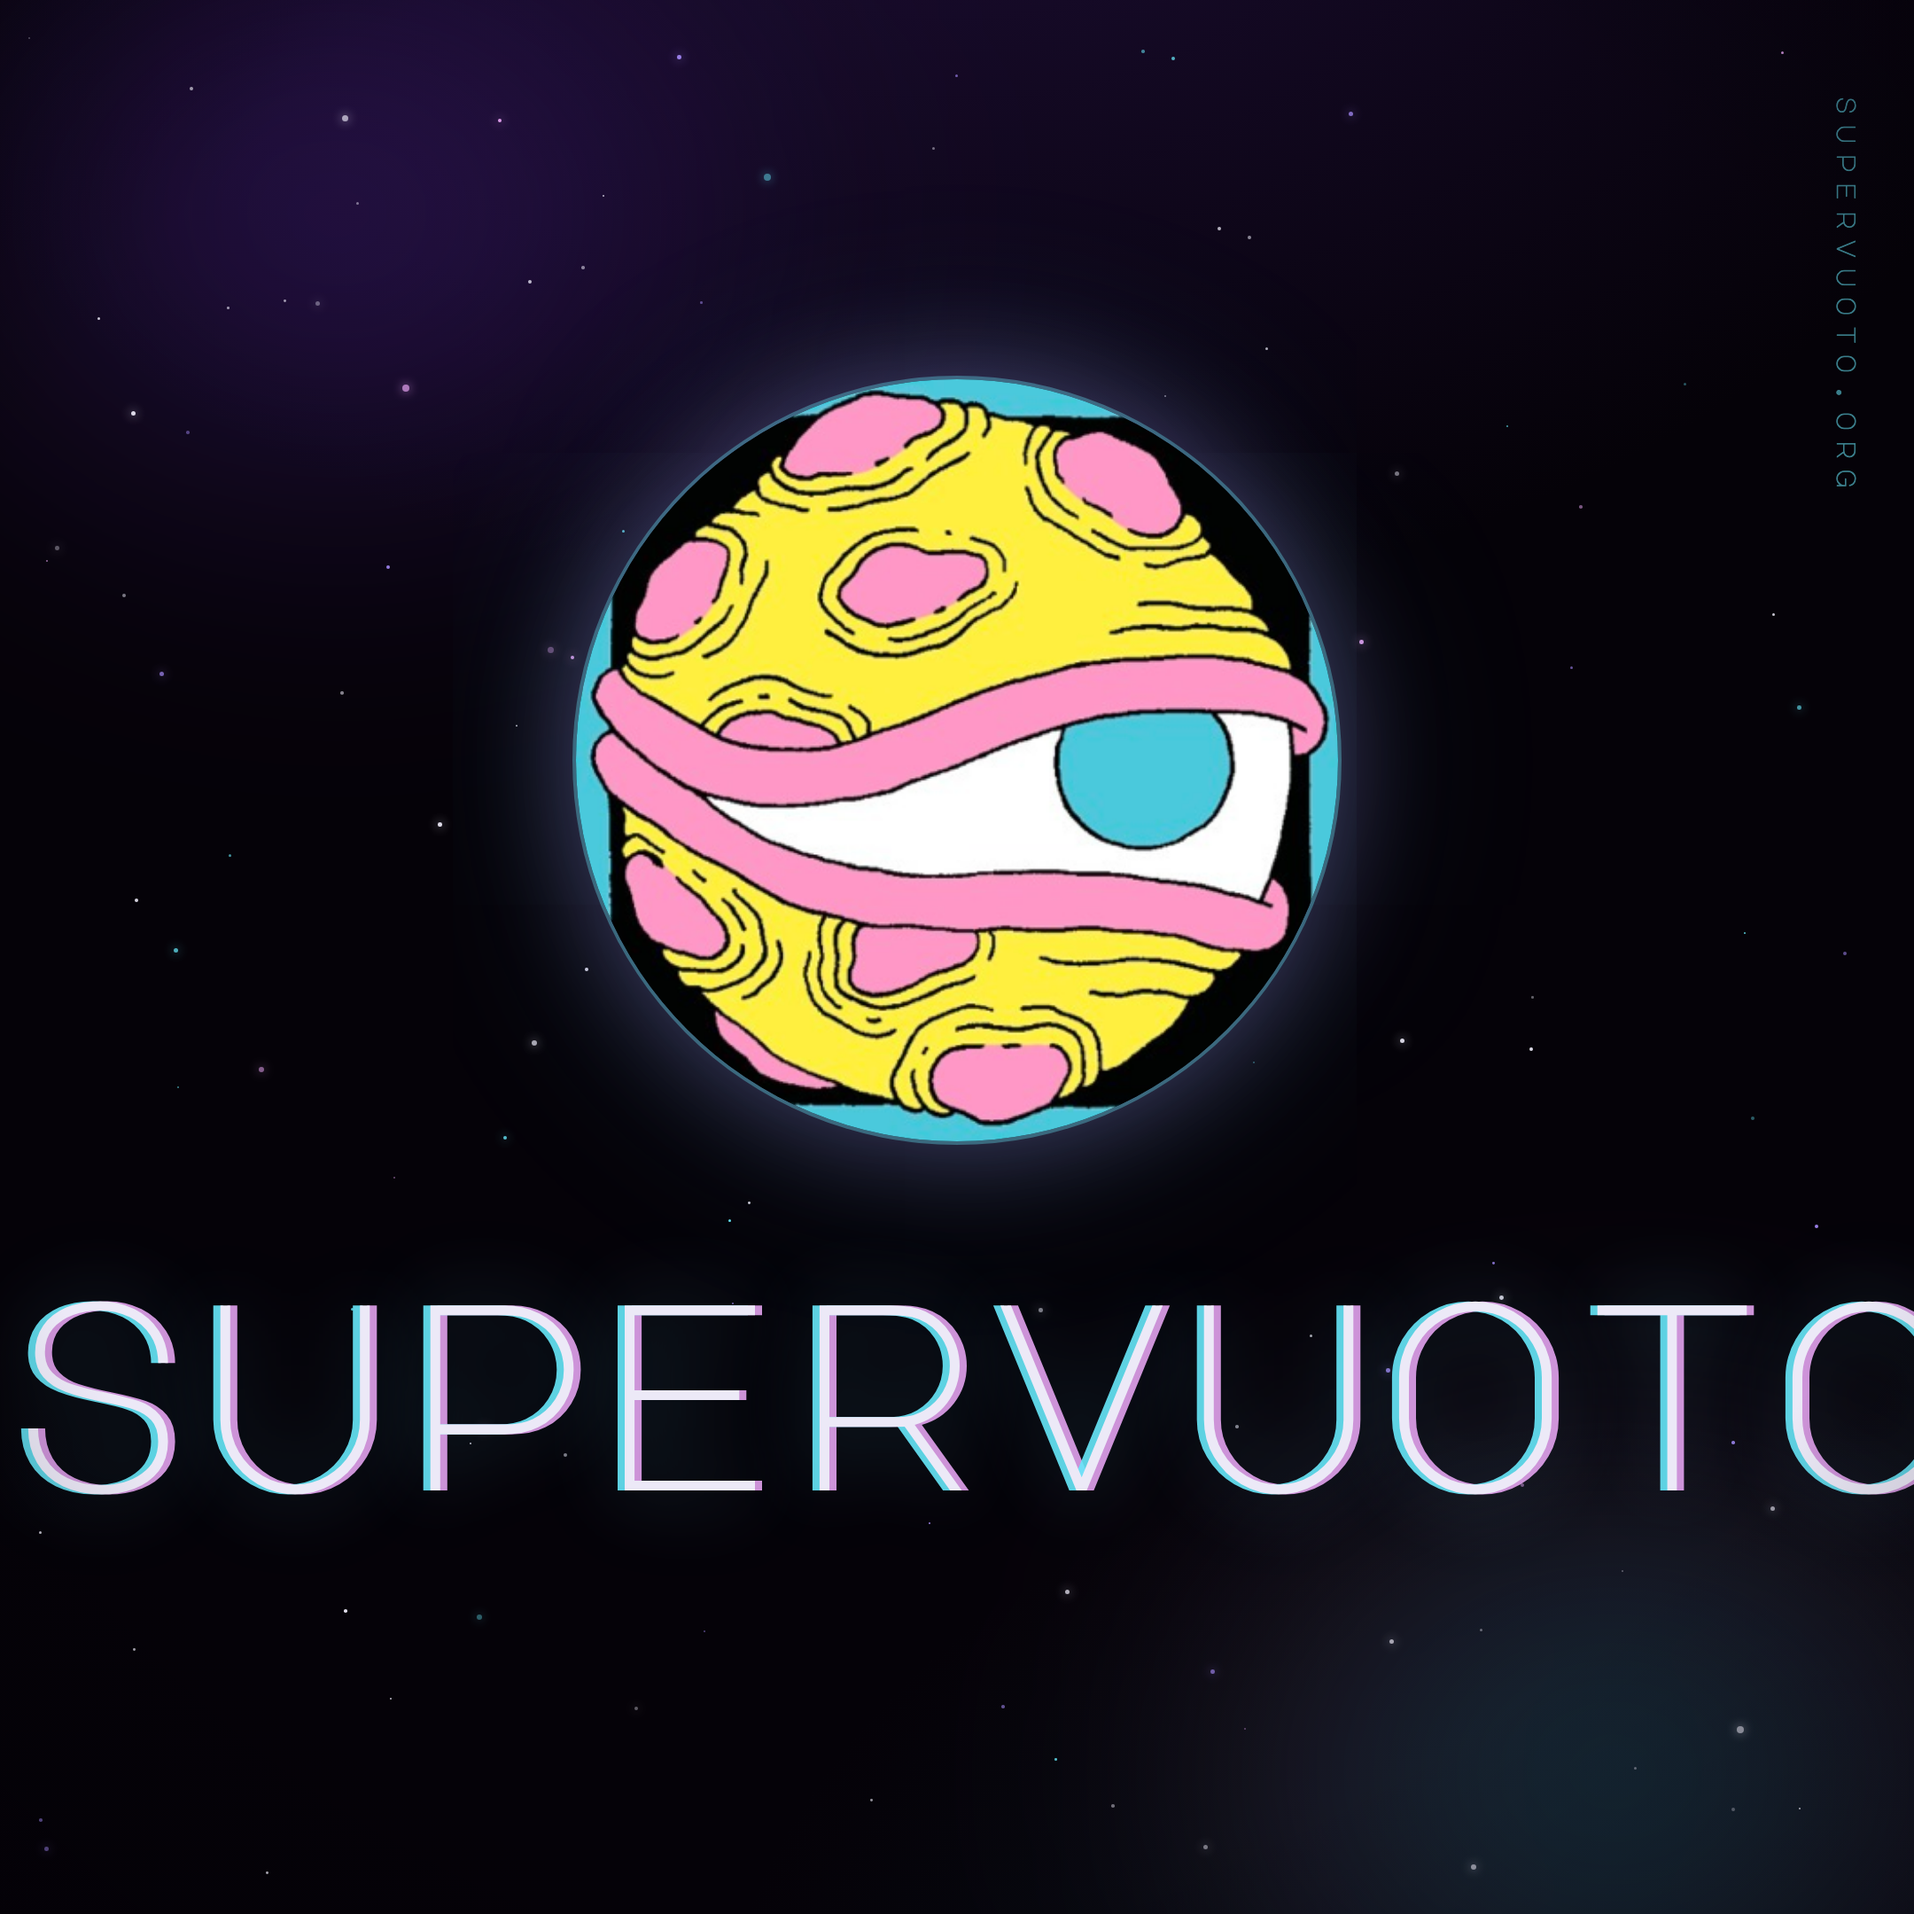
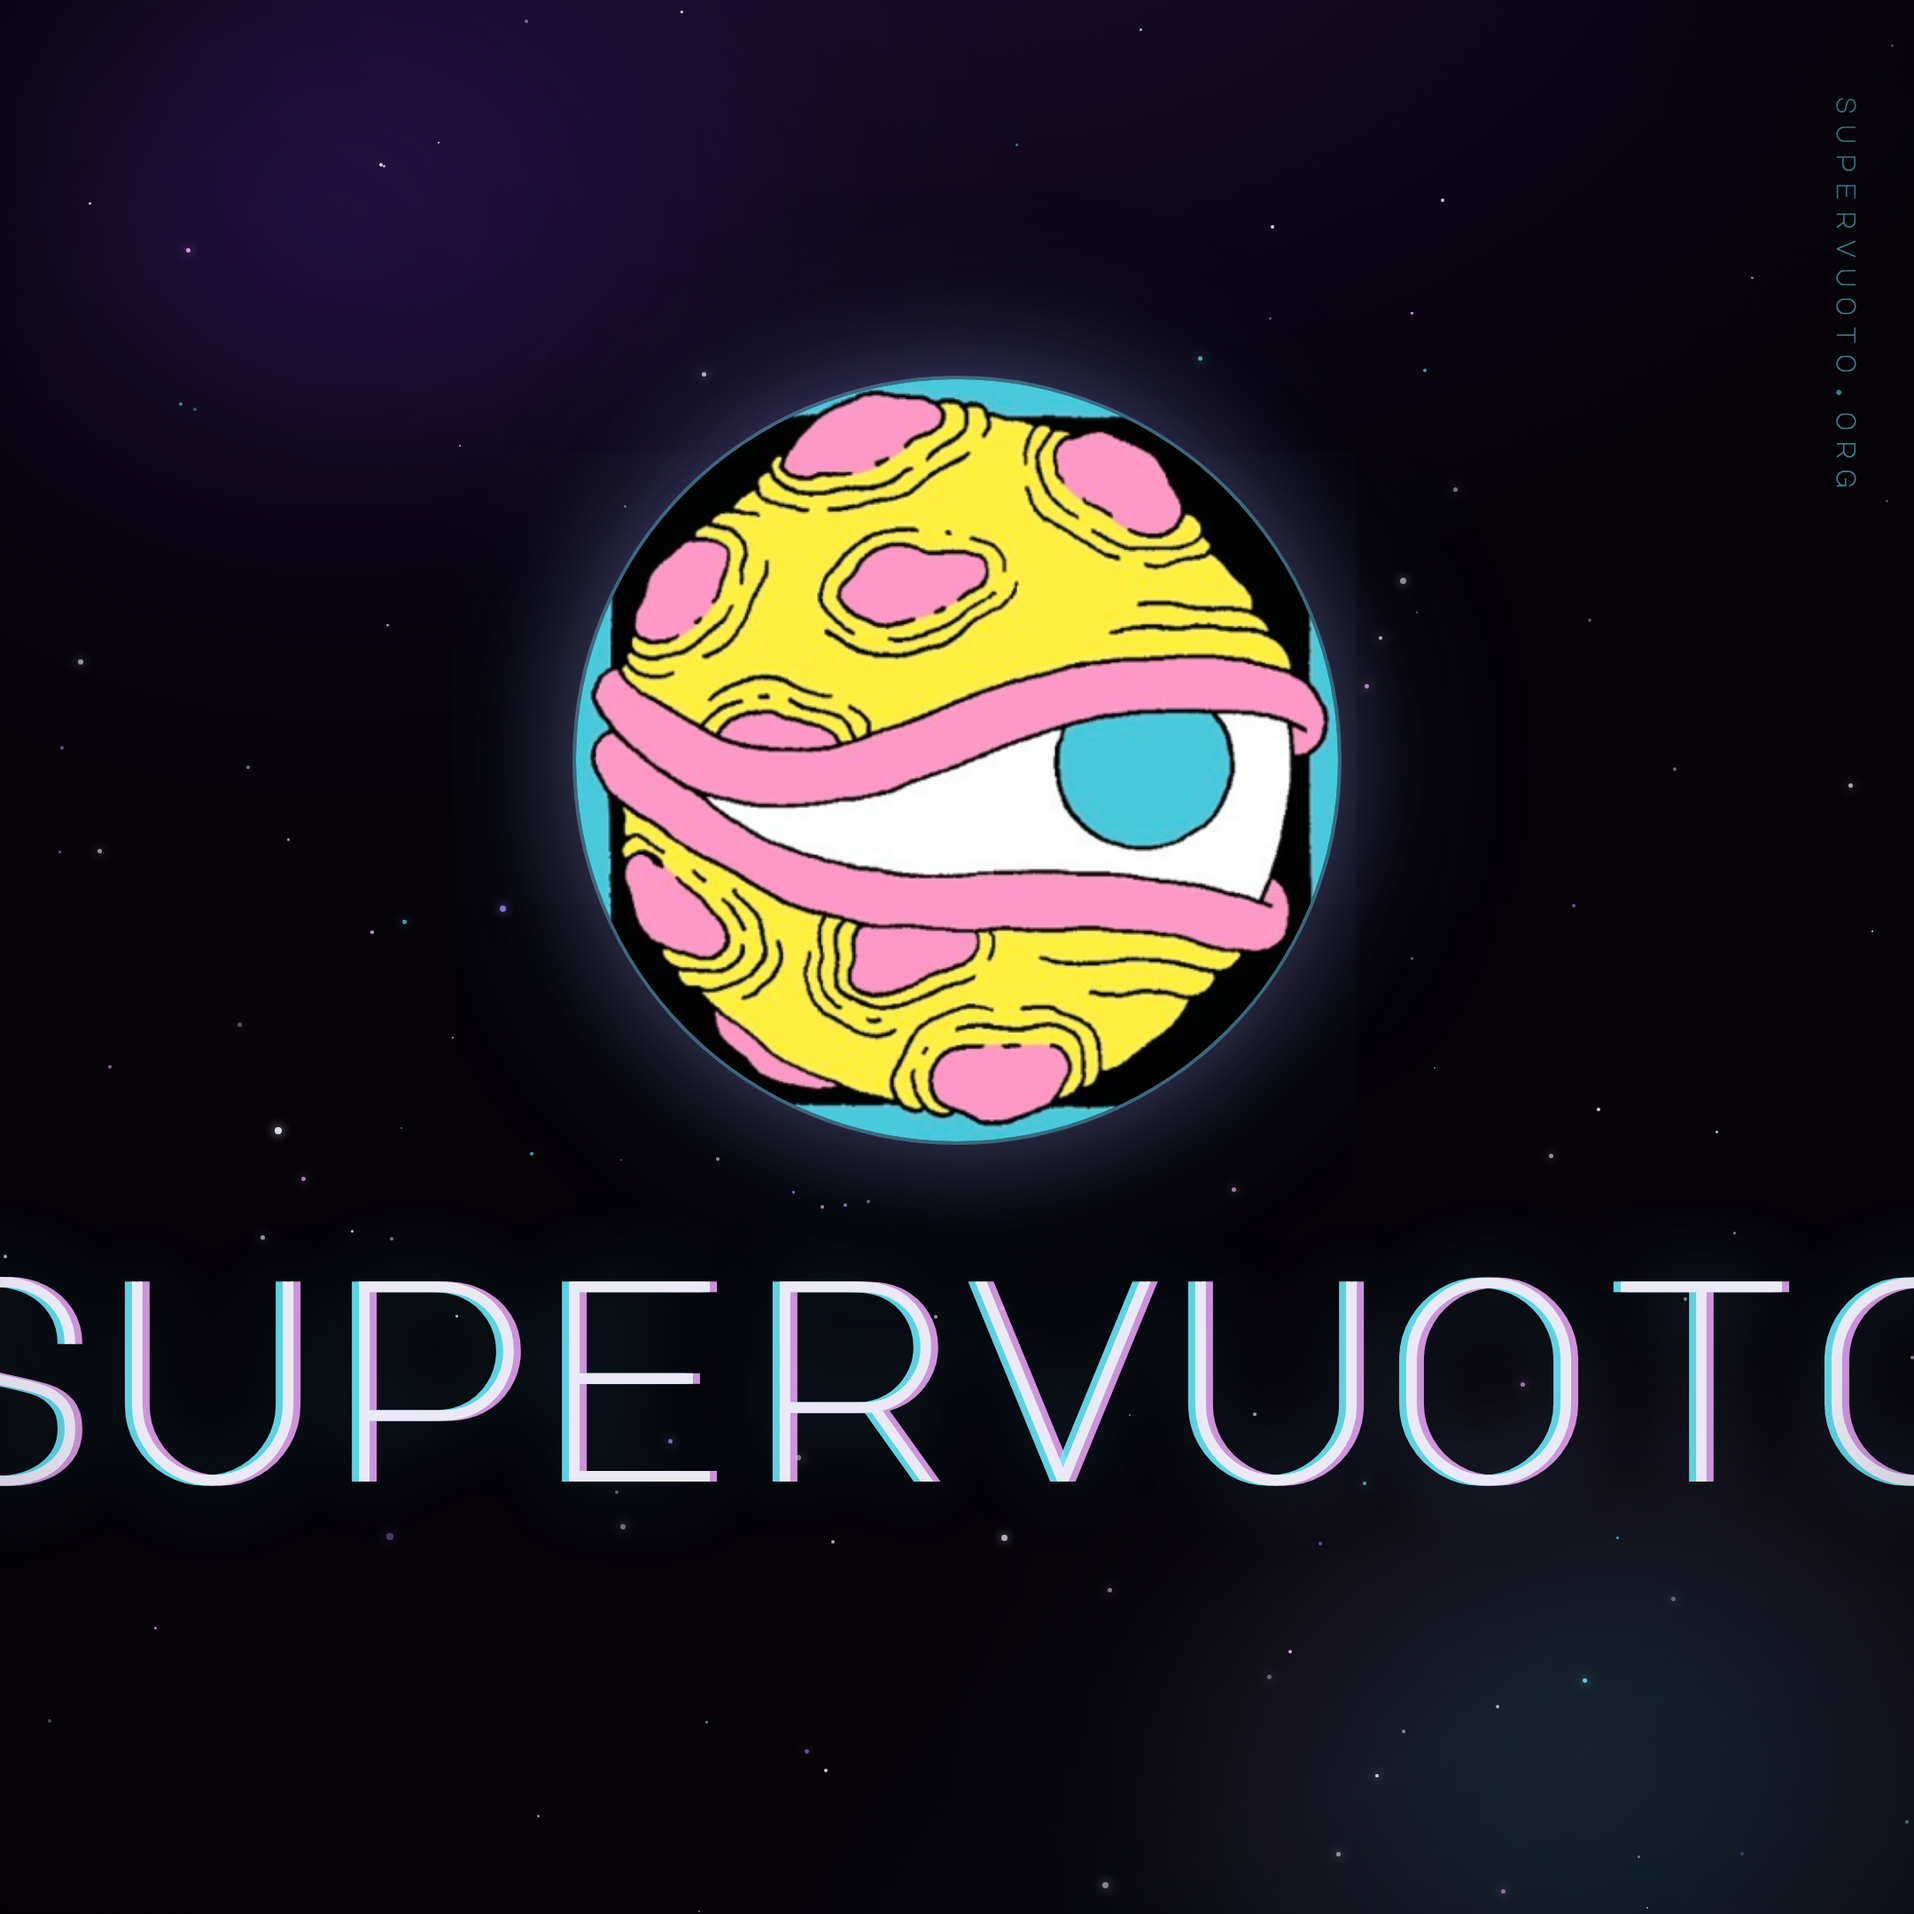
ig cover: auto-fit wordmark so S and O are cut exactly in half
Wordmark width now fitted to 10/9 of the frame (monospace), so the leading
S and trailing O bleed off symmetrically at their midpoints. Both formats.

Changed region(s): [[0.0, 0.6514, 0.9306, 0.8065], [0.9306, 0.6514, 1.0, 0.8065]]

diff --git a/scripts/ig-cover.html b/scripts/ig-cover.html
@@ -52,10 +52,10 @@
 
   .word {
     position: absolute;
-    top: 706px; left: 0; right: 0;
-    text-align: center;
-    white-space: nowrap;      /* overflow the edges: first S / last O get clipped */
-    font-size: 150px;
+    top: 690px; left: 50%;
+    transform: translateX(-50%);
+    white-space: nowrap;      /* JS fits width to 10/9 of frame → S and O cut exactly in half */
+    font-size: 180px;
     letter-spacing: 0;
     text-transform: lowercase;
     color: #ece9f7;
@@ -68,7 +68,7 @@
   /* 4:5 portrait (1080x1350) */
   #stage.portrait { height: 1350px; }
   #stage.portrait .eye { top: 320px; width: 470px; height: 470px; margin-left: -235px; }
-  #stage.portrait .word { top: 900px; }
+  #stage.portrait .word { top: 892px; }
 
   .url {
     position: absolute;
@@ -118,6 +118,21 @@
       if (s > 2.2) i.style.boxShadow = '0 0 6px ' + c;
       stars.appendChild(i);
     }
+
+    // Fit the wordmark so it's exactly 10/9 of the frame width (1200px on a
+    // 1080 frame): with a monospace font this bleeds half of the first "s"
+    // off the left edge and half of the last "o" off the right — symmetric.
+    function fitWord() {
+      const w = document.querySelector('.word');
+      const target = (1080 * 10) / 9;
+      const cur = w.getBoundingClientRect().width;
+      if (cur > 0) {
+        const fs = parseFloat(getComputedStyle(w).fontSize);
+        w.style.fontSize = (fs * target) / cur + 'px';
+      }
+    }
+    if (document.fonts && document.fonts.ready) document.fonts.ready.then(fitWord);
+    else fitWord();
   </script>
 </body>
 </html>
